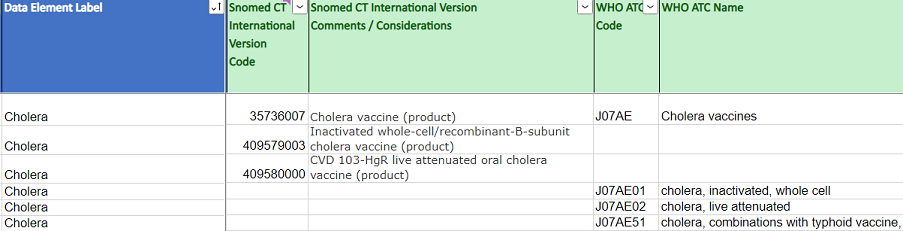
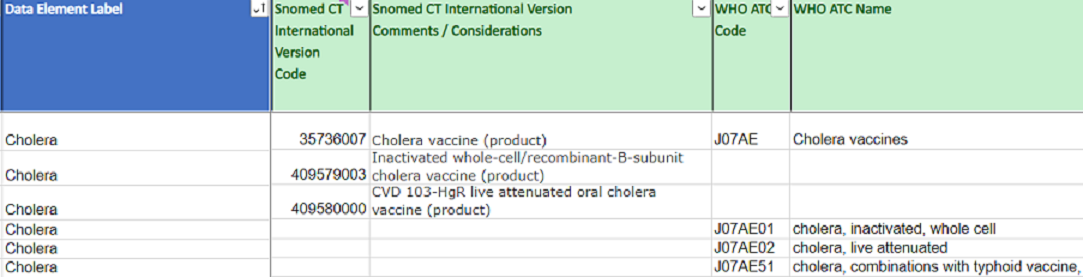
fixed image formating
fixed image formating

diff --git a/input/pagecontent/documentation.md b/input/pagecontent/documentation.md
@@ -11,16 +11,16 @@ To represent the activities that need to be carried out, this implementation gui
 
 In particular, processing the PlanDefinition  with the $apply operation [FHIR-Workflow](https://www.hl7.org/fhir/workflow.html) will result in the creation of an [CPG-ImmunizationActivity]http://hl7.org/fhir/uv/cpg/StructureDefinition-cpg-immunizationactivity.html
 
-<!--![BCG-ImmunizationActivity](./images/ActivityDefinition_BCG_Example1.png)-->
+![BCG-ImmunizationActivity](./images/ActivityDefinition_BCG_Example1.png)
 
 As part of the implementation the country specific EIR (Electronic Immunization Registry) will need to fill in the ActivityDefinition.product[x]. It is not possible for this IG to recommend a specific product. There are limitations of supply chain, country specific needs, and other issues which cannot be captured and generalized to accomodate all specific use cases. 
 
 For example, Cholera has 3 SNOMED Codes and 4 ATC Codes.
-<!--
+
 ![Cholera-SNOMEDCT/ACT Codes](./images/Cholera_SNOMED_ATC_Example.png)
 
 <br />
---> 
+
 
 #### FHIR Library
 The FHIR Library contains a base64 encoded CQL library which represents the decision logic as a series of boolean clauses. Each PlanDefinition and Measure will reference a Library from which each decision point can be made and specify which expression from the CQL is used to trigger a decision in PlanDefinition or where to retrieve data to create the MeasureReport in the Measure, repsectively.
